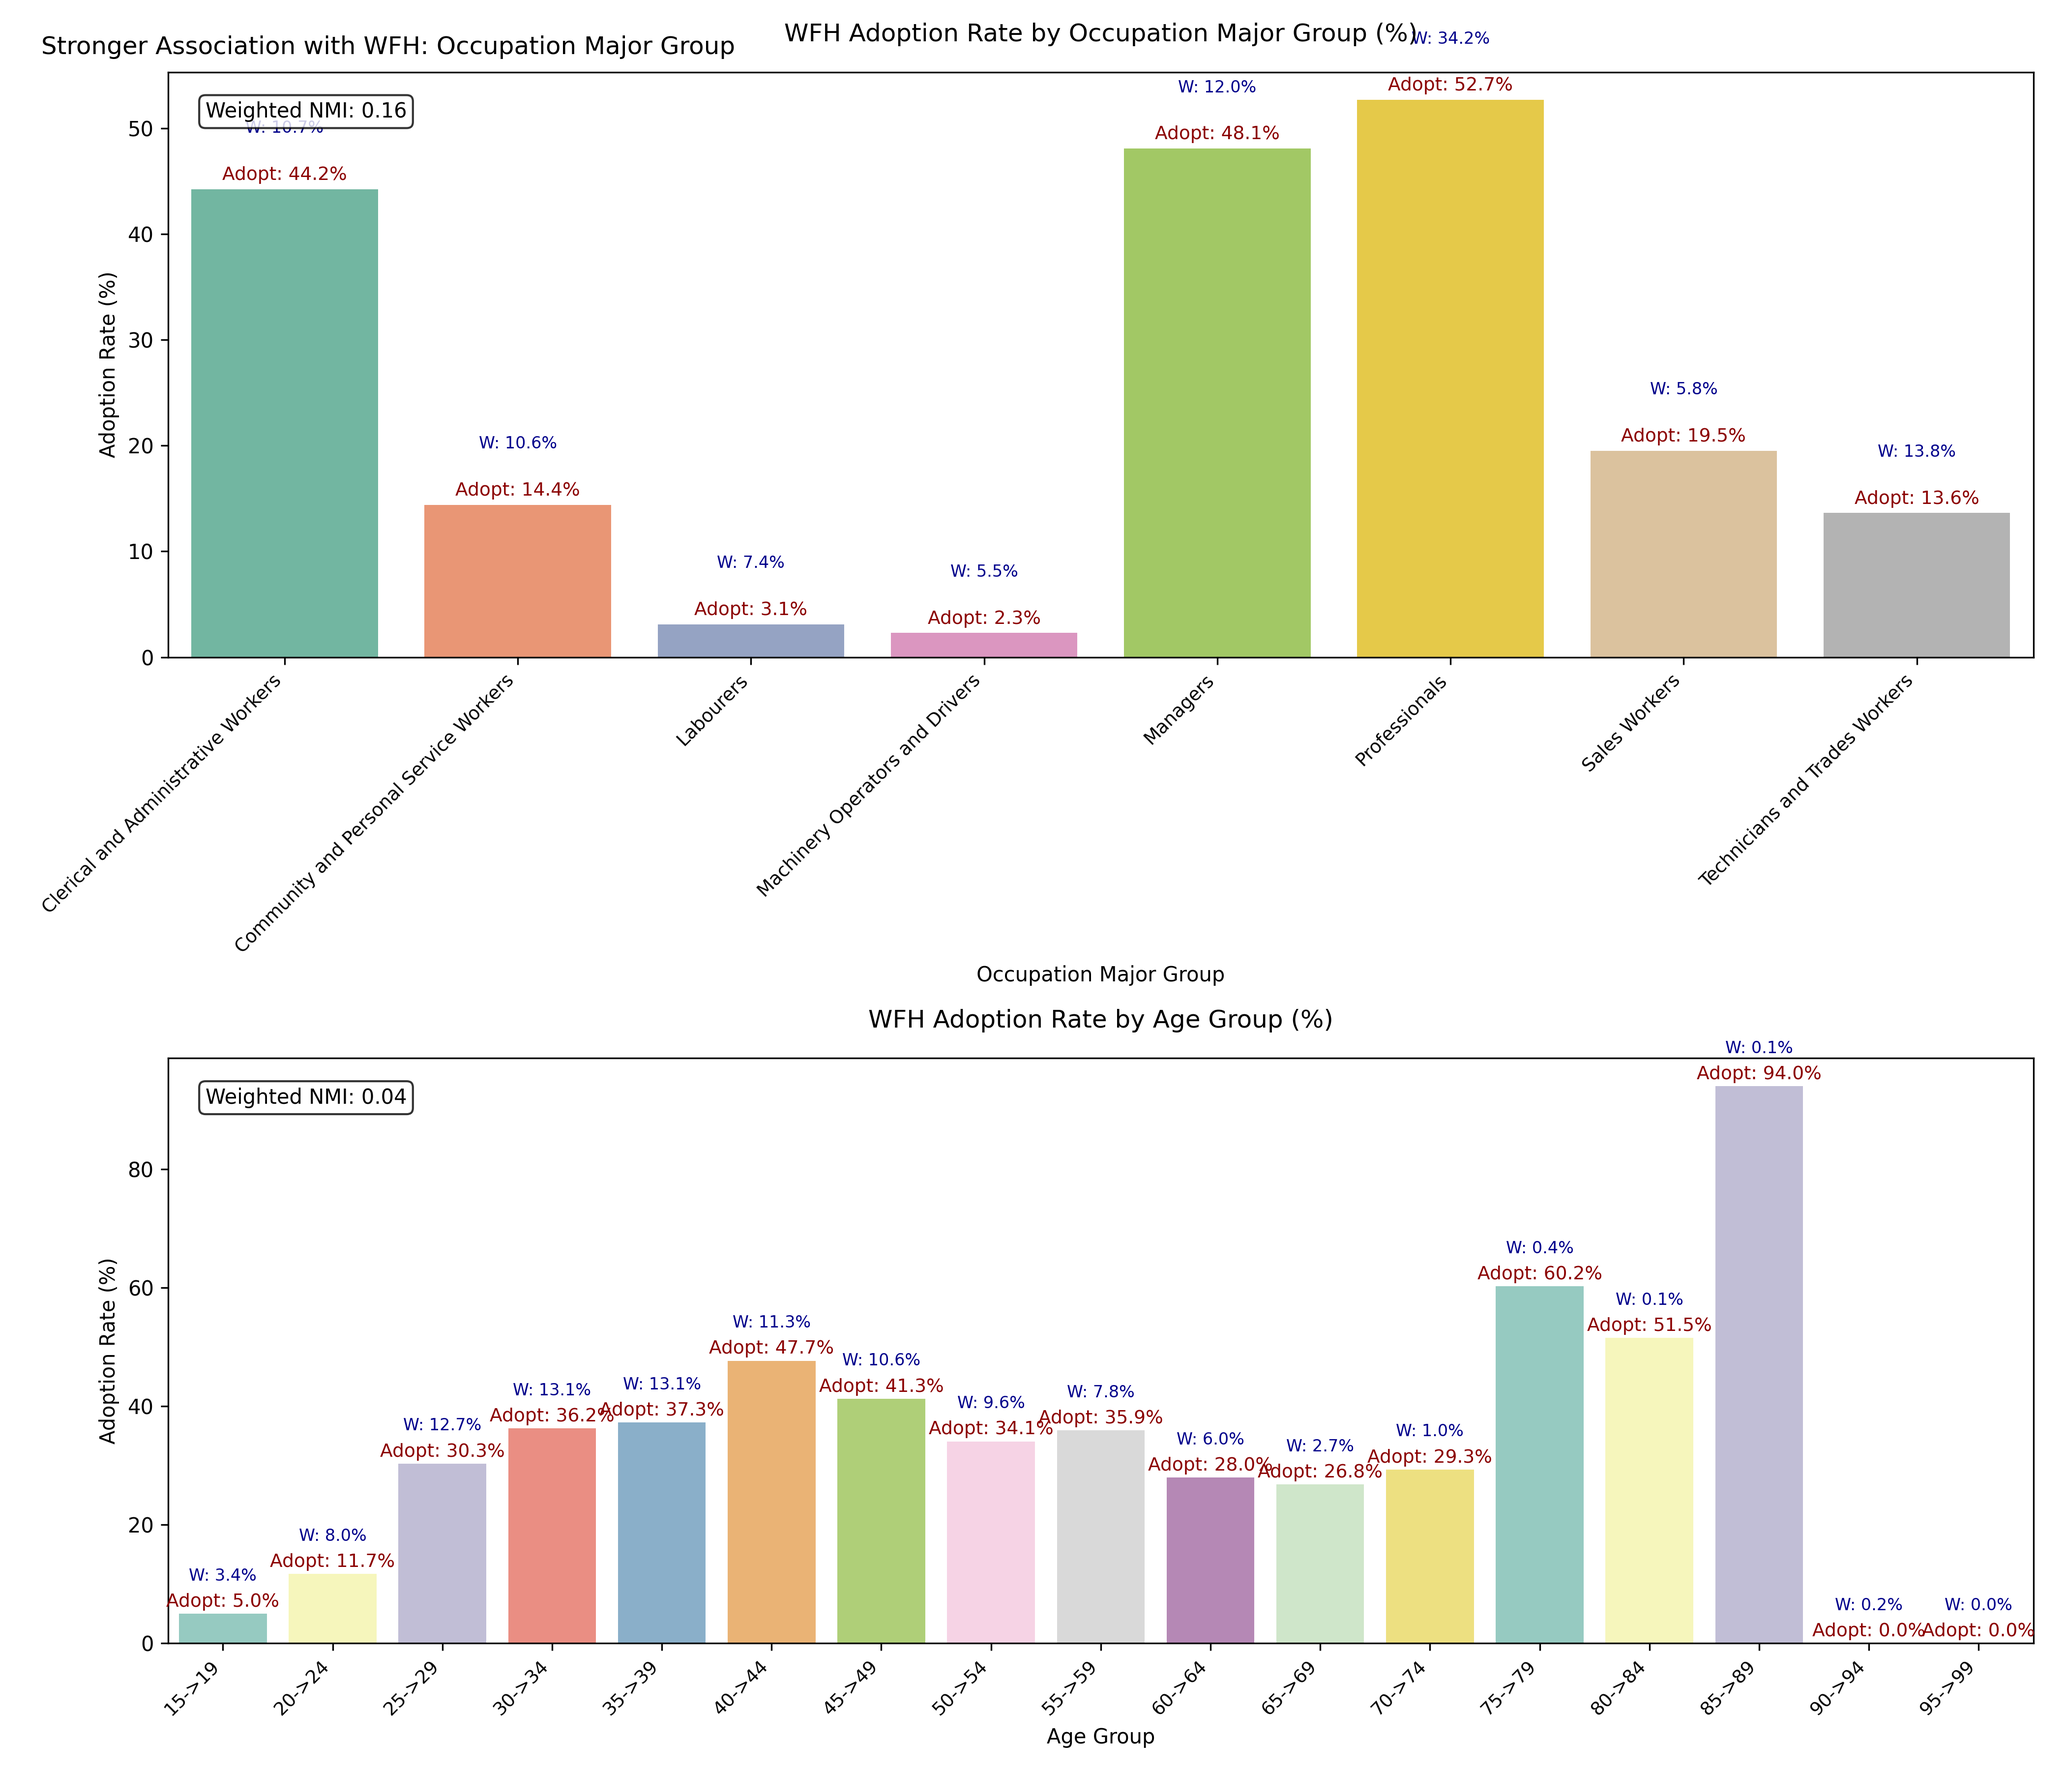
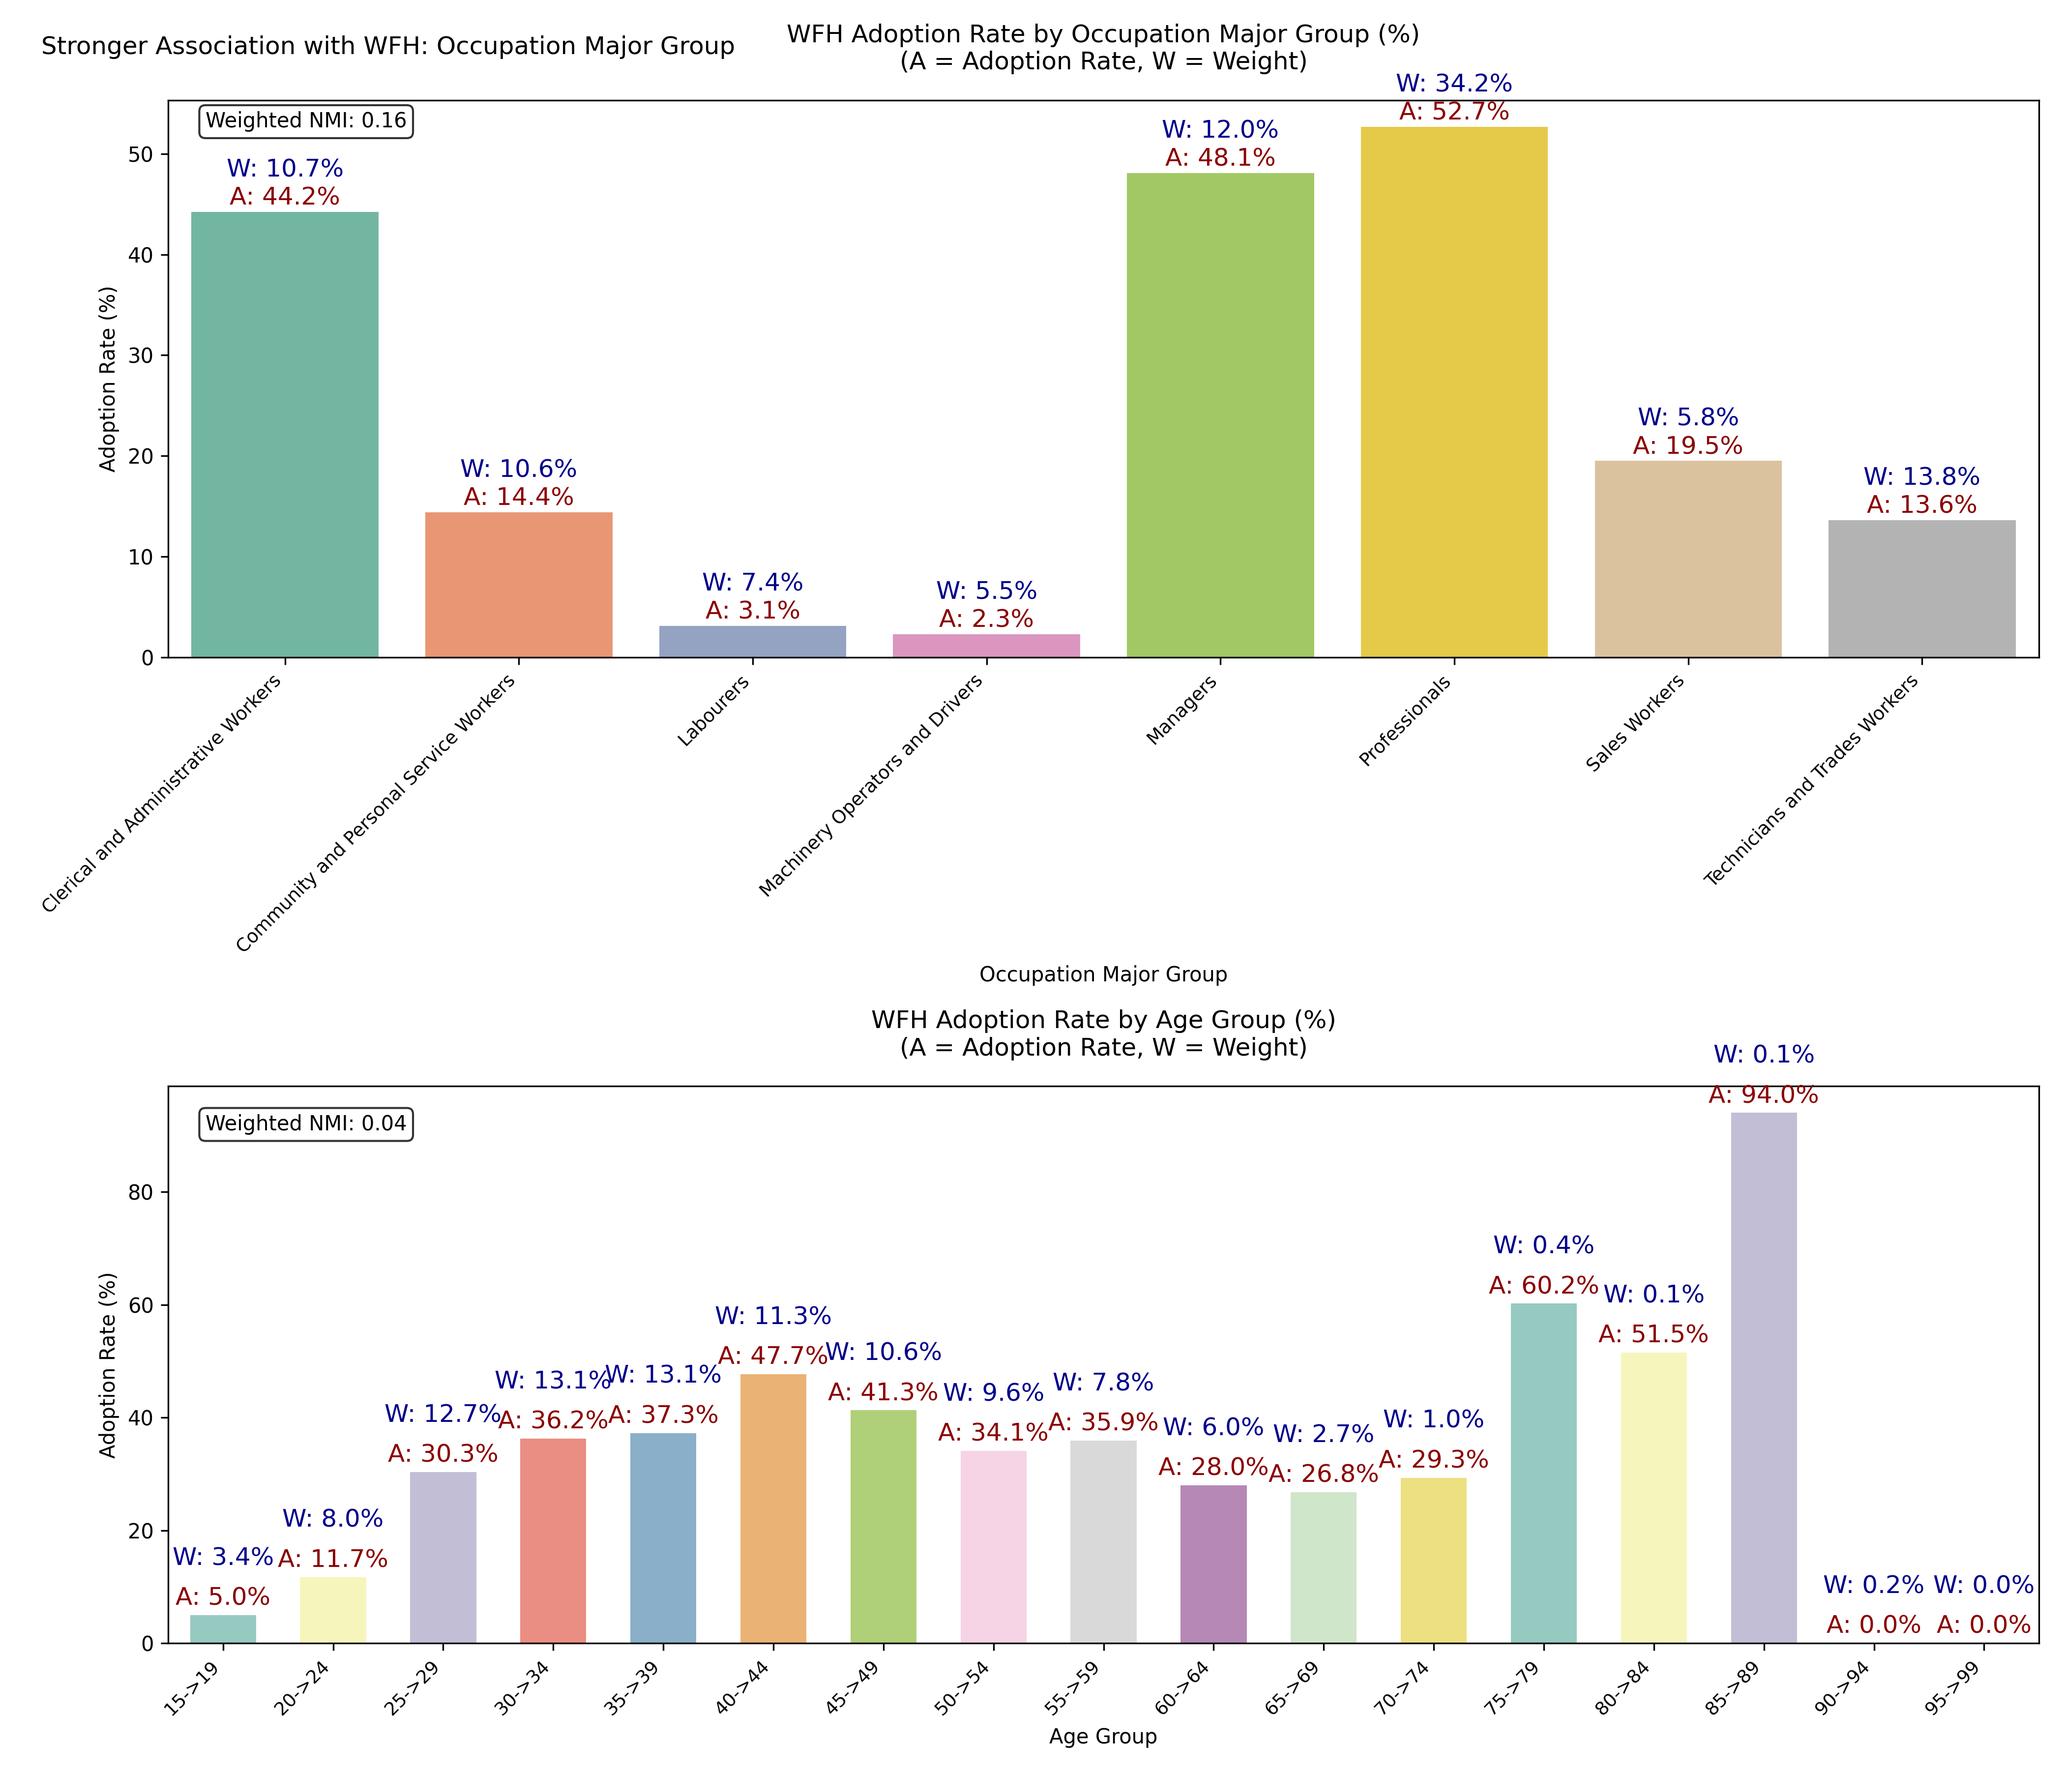
change pic

diff --git a/02_correlation_analysis/scripts/Person_Factor.py b/02_correlation_analysis/scripts/Person_Factor.py
@@ -86,25 +86,25 @@ plt.figure(figsize=(14, 12))
 # Subplot 1: WFH Adoption Rate by Occupation Major Group
 plt.subplot(2, 1, 1)
 ax1 = sns.barplot(x=occ_adopt_rate.index, y=occ_adopt_rate.values, palette="Set2")
-plt.title("WFH Adoption Rate by Occupation Major Group (%)", fontsize=12, pad=15)
+plt.title("WFH Adoption Rate by Occupation Major Group (%)\n(A = Adoption Rate, W = Weight)", fontsize=12, pad=15)
 plt.xlabel("Occupation Major Group", fontsize=10)
 plt.ylabel("Adoption Rate (%)", fontsize=10)
 plt.xticks(rotation=45, ha="right", fontsize=9)  # Rotate labels to avoid overlap
 # Add value lables on bars
 # I acknowledge that the addition of the weight labels was done with reference to AI.
 for i, (adopt_val, weight_val) in enumerate(zip(occ_adopt_rate.values, occ_weight_pct.values)):
-    ax1.text(i, adopt_val + 0.5, f"Adopt: {adopt_val:.1f}%", ha="center", va="bottom", fontsize=9, color="darkred")  # WFH rate
-    ax1.text(i, adopt_val + 5, f"W: {weight_val:.1f}%", ha="center", va="bottom", fontsize=8, color="darkblue")   # Weight
+    ax1.text(i, adopt_val + 0.2, f"A: {adopt_val:.1f}%", ha="center", va="bottom", fontsize=12, color="darkred")  # WFH rate
+    ax1.text(i, adopt_val + 3, f"W: {weight_val:.1f}%", ha="center", va="bottom", fontsize=12, color="darkblue")   # Weight
 
 # Add NMI info text box
-ax1.text(0.02, 0.95, f"Weighted NMI: {occ_nmi:.2f}", 
+ax1.text(0.02, 0.98, f"Weighted NMI: {occ_nmi:.2f}", 
          transform=ax1.transAxes, verticalalignment="top",
          bbox=dict(boxstyle="round", facecolor="white", alpha=0.8), fontsize=10)
 
 # Subplot 2: WFH Adoption Rate by Age Group
 plt.subplot(2, 1, 2)
-ax2 = sns.barplot(x=age_adopt_rate.index, y=age_adopt_rate.values, palette="Set3")
-plt.title("WFH Adoption Rate by Age Group (%)", fontsize=12, pad=15)
+ax2 = sns.barplot(x=age_adopt_rate.index, y=age_adopt_rate.values, palette="Set3", width=0.6)
+plt.title("WFH Adoption Rate by Age Group (%)\n(A = Adoption Rate, W = Weight)", fontsize=12, pad=15)
 plt.xlabel("Age Group", fontsize=10)
 plt.ylabel("Adoption Rate (%)", fontsize=10)
 plt.xticks(rotation=45, ha="right", fontsize=9)  # Rotate labels to avoid overlap
@@ -112,8 +112,8 @@ plt.xticks(rotation=45, ha="right", fontsize=9)  # Rotate labels to avoid overla
 # Add value labels on bars
 # I acknowledge that the addition of the weight labels was done with reference to AI.
 for i, (adopt_val, weight_val) in enumerate(zip(age_adopt_rate.values, age_weight_pct.values)):
-    ax2.text(i, adopt_val + 0.5, f"Adopt: {adopt_val:.1f}%", ha="center", va="bottom", fontsize=9, color="darkred")  # WFH rate
-    ax2.text(i, adopt_val + 5, f"W: {weight_val:.1f}%", ha="center", va="bottom", fontsize=8, color="darkblue")   # Weight
+    ax2.text(i, adopt_val + 0.9, f"A: {adopt_val:.1f}%", ha="center", va="bottom", fontsize=12, color="darkred")  # WFH rate
+    ax2.text(i, adopt_val + 8, f"W: {weight_val:.1f}%", ha="center", va="bottom", fontsize=12, color="darkblue")   # Weight
 
 # Determine variable with stronger association
 stronger_var = "Occupation Major Group" if occ_nmi > age_nmi else "Age Group"

diff --git a/02_correlation_analysis/scripts/Commute_Factor.py b/02_correlation_analysis/scripts/Commute_Factor.py
@@ -7,7 +7,7 @@ import math
 import os
 
 # This script uses the journey dataset to analyze three commute-related factors 
-# (main journey mode, journey travel time, and journey purpose). 
+# (main journey mode, journey travel time, and first commute destination purpose). 
 # For each factor, it calculates the Normalized Mutual Information (NMI) 
 # with WFH adoption (0 or 1) and identifies which factor shows the strongest association with WFH adoption.
 
@@ -84,7 +84,7 @@ mode_nmi, mode_ct, mode_adopt, mode_weight_pct = calculate_weighted_nmi_and_weig
     df=valid_df, var_name="main_journey_mode"
 )
 
-# Journey Purpose
+# First commute destination purpose
 purp_nmi, purp_ct, purp_adopt, purp_weight_pct = calculate_weighted_nmi_and_weights(
     df=valid_df, var_name="destpurp1_desc_01"
 )
@@ -100,7 +100,7 @@ plt.figure(figsize=(14, 20))  # Adjust size for clear labels
 # Subplot 1: Main Journey Mode
 plt.subplot(3, 1, 1)
 ax1 = sns.barplot(x=mode_adopt.index, y=mode_adopt.values, palette="Set2", legend=False)
-plt.title("WFH Adopter Rate by Main Journey Mode (End Loc=TO_WORK)", fontsize=13, pad=15)
+plt.title("WFH Adopter Rate by Main Journey Mode (End Loc=TO_WORK)", fontsize=13, pad=15, y=0.96)
 plt.xlabel("Main Journey Mode", fontsize=11)
 plt.ylabel("WFH Adopter Rate (%)", fontsize=11)
 plt.xticks(rotation=45, ha="right", fontsize=10)
@@ -113,11 +113,11 @@ for i, (adopt_val, weight_val) in enumerate(zip(mode_adopt.values, mode_weight_p
 ax1.text(0.02, 0.8, f"Weighted NMI: {mode_nmi:.2f}", transform=ax1.transAxes, 
          bbox=dict(boxstyle="round", facecolor="white", alpha=0.8), fontsize=11)
 
-# Subplot 2: Journey Purpose
+# Subplot 2: 
 plt.subplot(3, 1, 2)
 ax2 = sns.barplot(x=purp_adopt.index, y=purp_adopt.values, palette="Set3", legend=False)
-plt.title("WFH Adopter Rate by Journey Purpose (End Loc=TO_WORK)", fontsize=13, pad=15)
-plt.xlabel("Journey Purpose (destpurp1_desc_01)", fontsize=11)
+plt.title("WFH Adopter Rate by First commute destination purpose (End Loc=TO_WORK)", fontsize=13, pad=15)
+plt.xlabel("First commute destination purpose", fontsize=11)
 plt.ylabel("WFH Adopter Rate (%)", fontsize=11)
 plt.xticks(rotation=45, ha="right", fontsize=10)
 
@@ -148,7 +148,7 @@ ax3.text(0.02, 0.8, f"Weighted NMI: {time_nmi:.2f}", transform=ax3.transAxes,
 # Association Conclusion 
 nmi_dict = {
     "Main Journey Mode": mode_nmi,
-    "Journey Purpose": purp_nmi,
+    "First commute destination purpose": purp_nmi,
     "Journey Travel Time": time_nmi
 }
 strongest_var = max(nmi_dict, key=nmi_dict.get)
